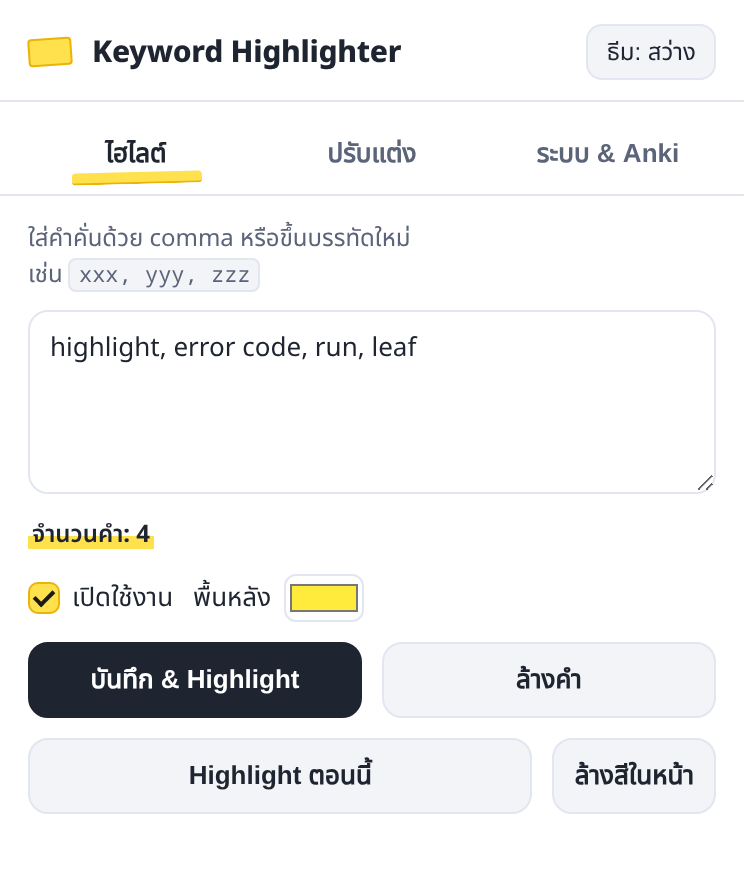
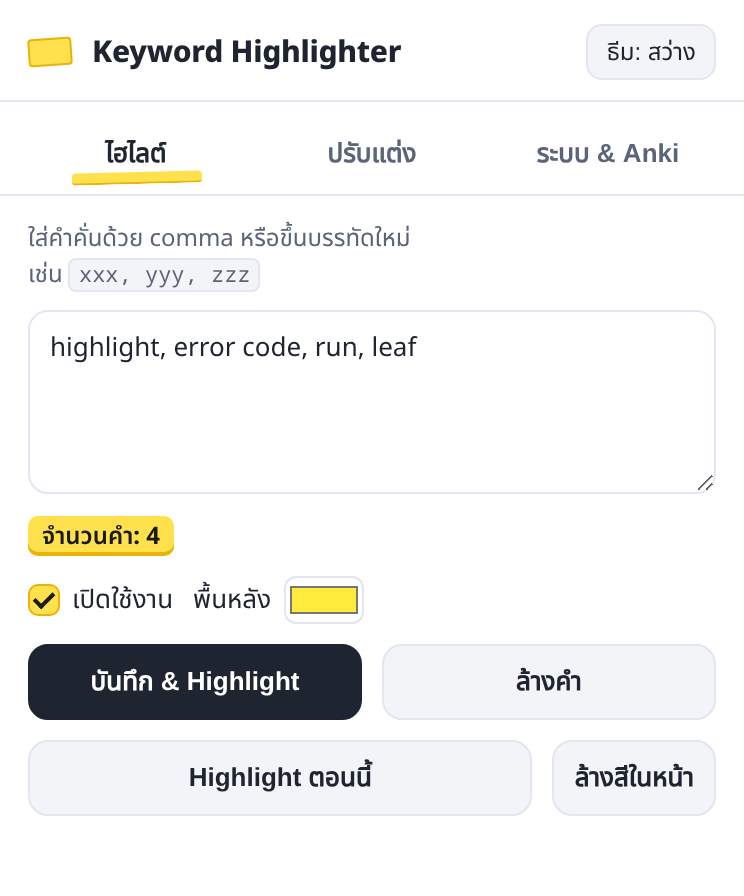
fix: make keyword count readable in dark mode
Use a solid marker chip with a fixed dark ink color instead of a text-color-based gradient, and refresh screenshots.

diff --git a/popup.html b/popup.html
@@ -11,6 +11,7 @@
     --line: #e2e6f0;
     --marker: #ffe14d;
     --marker-edge: #eab308;
+    --marker-ink: #1a1a1a;
     --pond: #2255cc;
     --pond-ink: #ffffff;
     --danger: #c2413a;
@@ -25,6 +26,7 @@
     --line: #2c3547;
     --marker: #ffe14d;
     --marker-edge: #c9a400;
+    --marker-ink: #1a1a1a;
     --pond: #7da2ff;
     --pond-ink: #101828;
     --danger: #f0877f;
@@ -131,9 +133,10 @@
   html[data-theme="dark"] .seg button[aria-pressed="true"] { background: var(--marker); color: #1a1a1a; }
   .switch { position: relative; display: inline-flex; align-items: center; gap: 8px; cursor: pointer; }
   #count {
-    display: inline-block; font-size: 12px; color: var(--ink);
-    background: linear-gradient(transparent 55%, var(--marker) 55%, var(--marker) 92%, transparent 92%);
-    padding: 0 2px; margin-top: 6px; font-weight: 650;
+    display: inline-block; font-size: 12px; font-weight: 650;
+    color: var(--marker-ink); background: var(--marker);
+    border-radius: 5px; padding: 1px 7px; margin-top: 6px;
+    box-shadow: inset 0 -2px 0 var(--marker-edge);
   }
   #status { font-size: 12px; color: #0a7a2f; min-height: 16px; margin-top: 6px; }
   html[data-theme="dark"] #status { color: #7ddf9a; }
